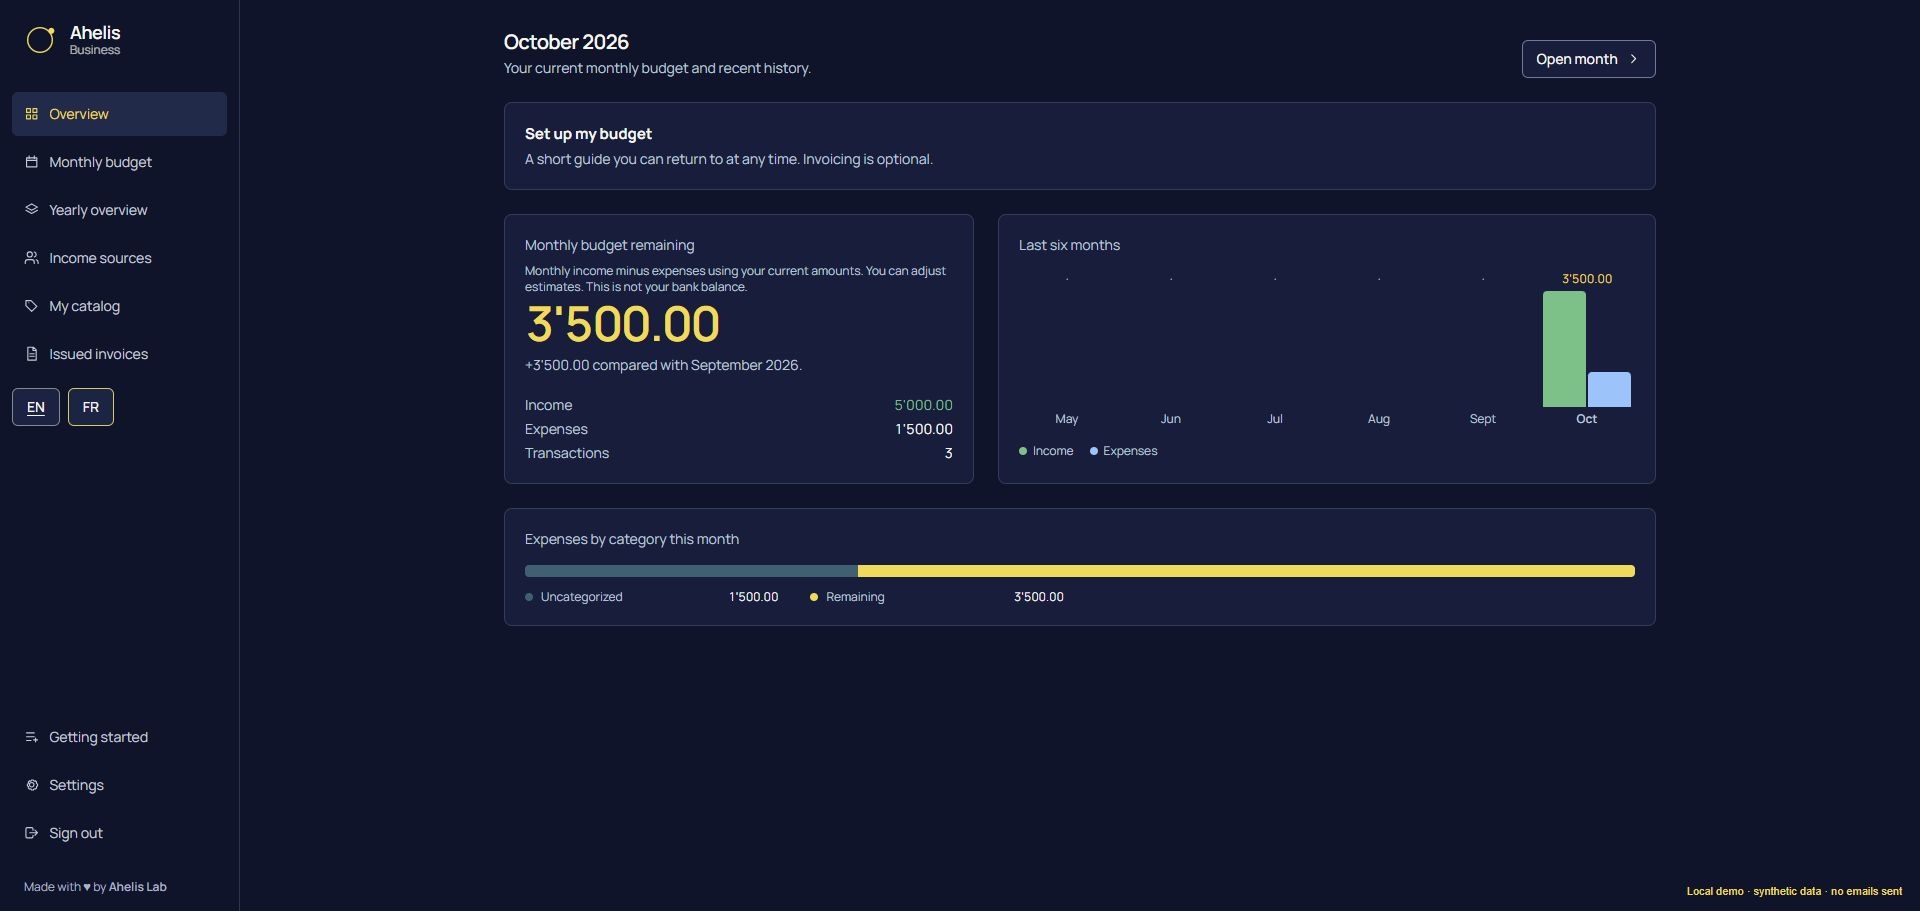
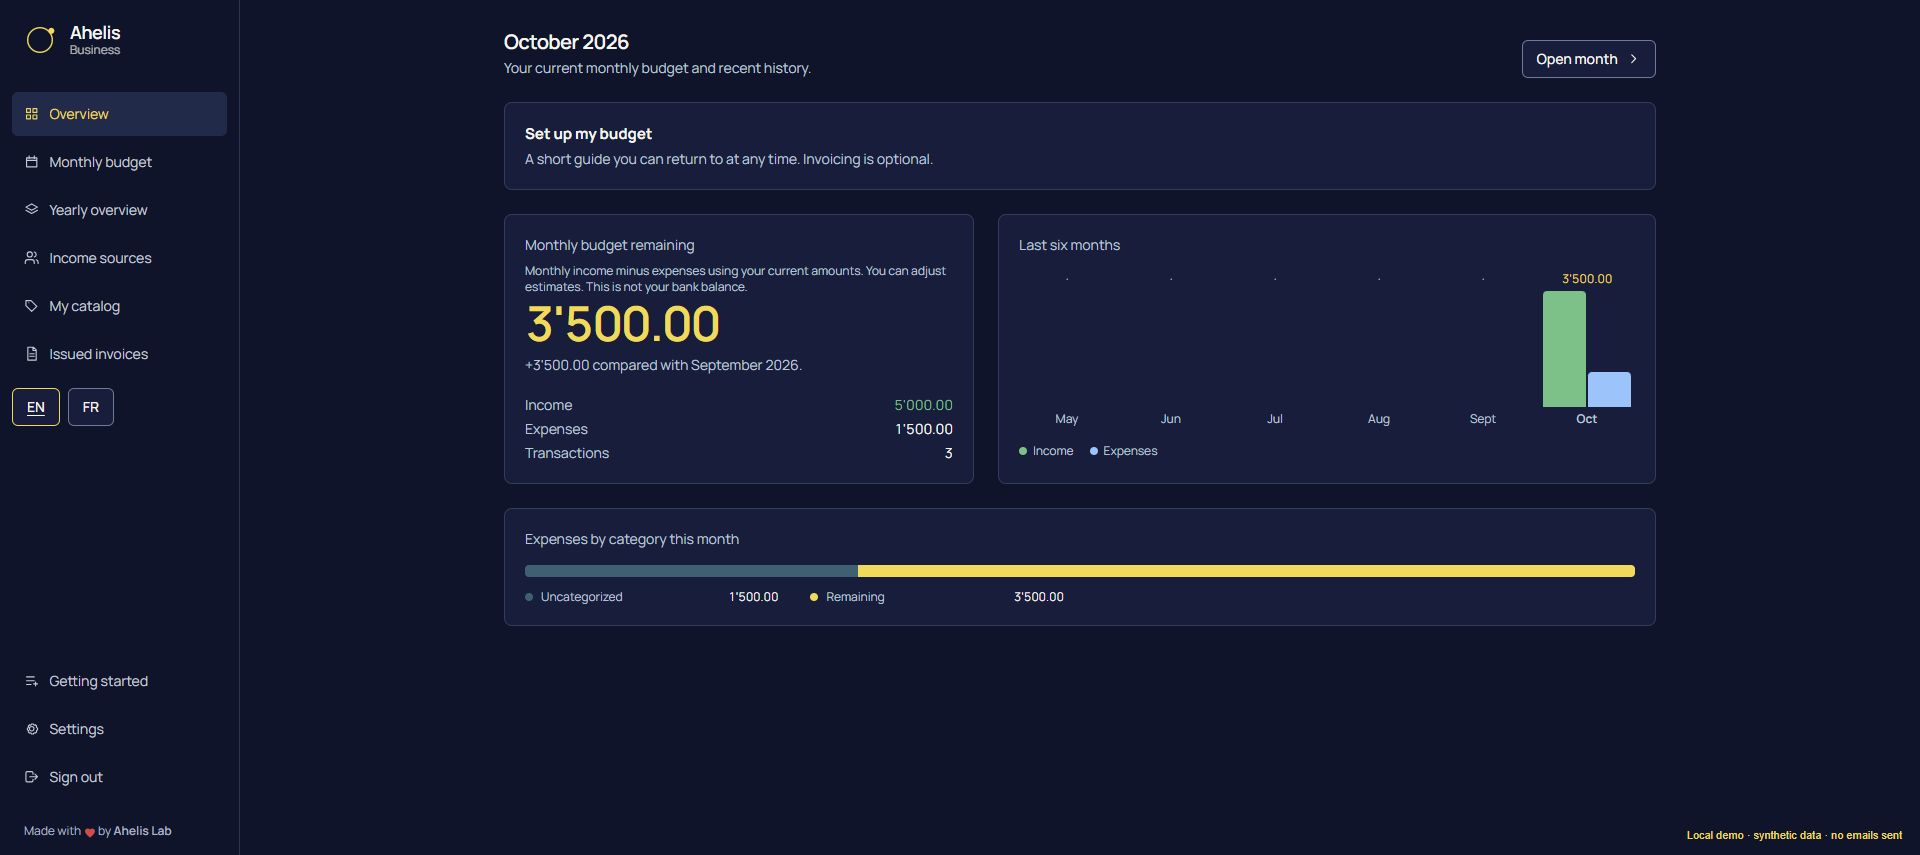
fix: align Business website with the studio signature

diff --git a/src/styles/main.css b/src/styles/main.css
@@ -732,6 +732,8 @@ body[data-page='contact'] .faq { padding-top: 100px; }
 .business-footer .container { display: grid; grid-template-columns: 1fr auto; gap: 20px; }
 .business-footer nav { display: flex; flex-wrap: wrap; gap: 28px; align-self: center; }
 .business-footer p { color: var(--muted); font-size: .8125rem; }
+.business-credit { display: flex; align-items: center; gap: 6px; grid-column: 1 / -1; }
+.business-credit svg { color: #ef4444; flex: 0 0 14px; }
 .business-privacy { max-width: 800px; padding-bottom: 80px; }
 .business-privacy p { color: var(--muted); }
 @media(max-width:600px) { .business-footer .container { grid-template-columns: 1fr; } }

diff --git a/CHANGELOG.md b/CHANGELOG.md
@@ -1,5 +1,10 @@
 # Historique des versions
 
+## 0.9.1 — 2026-10-16
+
+- Signature Ahelis Lab du site Business avec une icône de cœur rouge.
+- Captures de démonstration actualisées après la même correction dans l’application.
+
 ## 0.9.0 — 2026-10-16
 
 - Site Business distinct sur `business.ahelislab.ch`, avec accueil, confidentialité et erreurs FR/EN.
